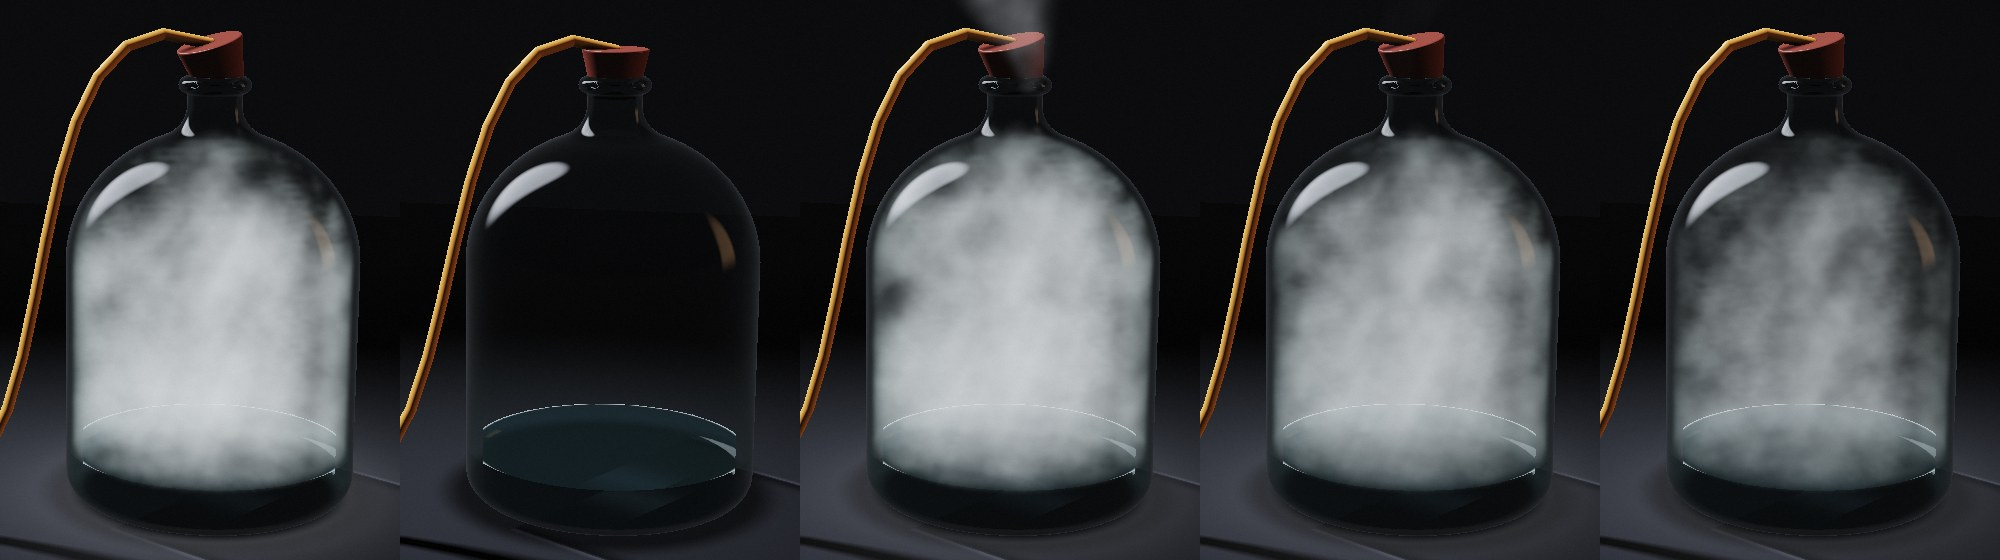
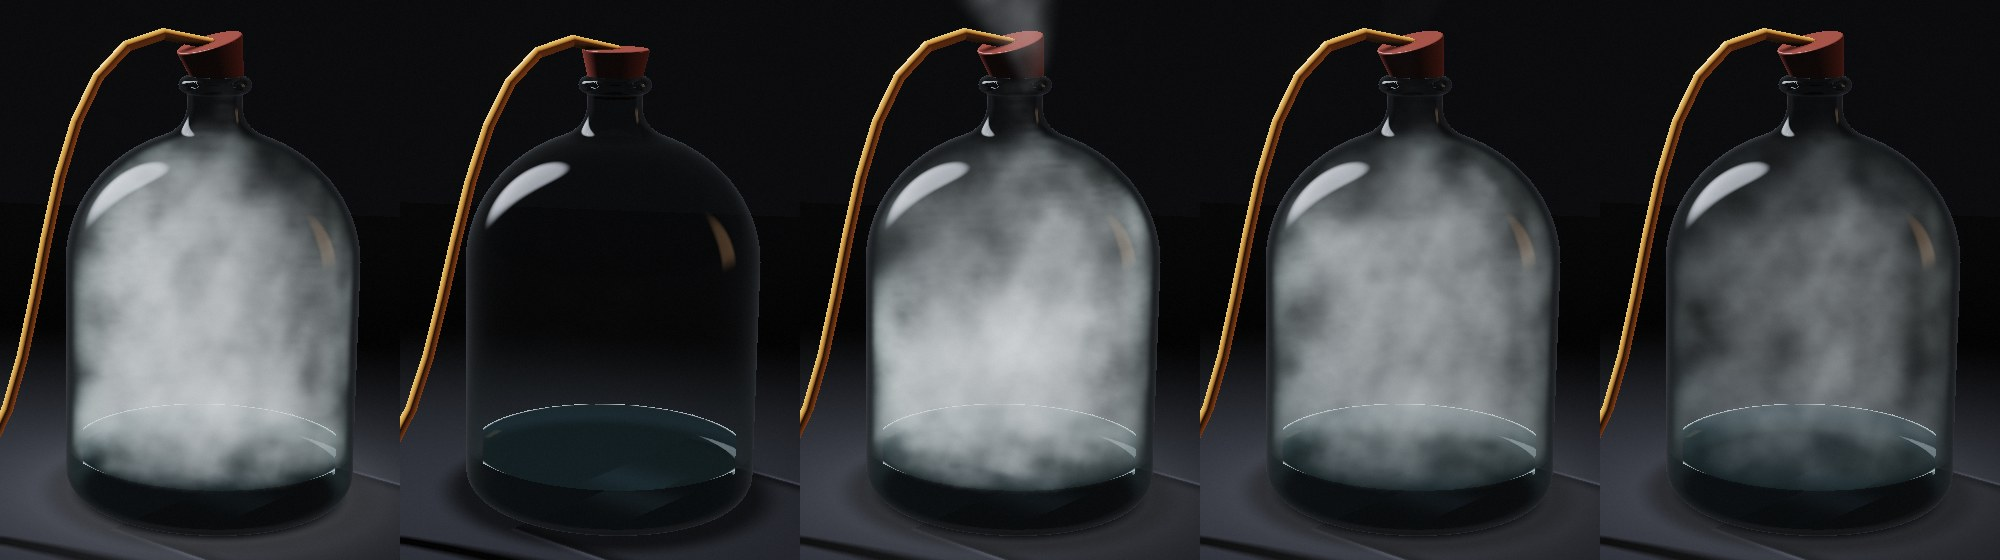
Cloud in a bottle: stronger fluid motion. Turbulence three times stronger at larger eddies (16 per metre), buoyancy 0.09, damping 0.12; a pop kicks the stir to 2 and swells the gas harder; a squeeze jets clear air at 1.3 m/s past the shoulder that bores into the cloud (fog drops by 40 percent, not 5

diff --git a/cloudbottle/fluid.js b/cloudbottle/fluid.js
@@ -115,8 +115,9 @@ void main() {
   v += cross(eta / (length(eta) + 1e-5), wC.xyz) * uVort * CELL * uDt;
   v *= max(1.0 - uDamp * uDt, 0.0);
   // A squeeze blows air from the stopper down the neck.
-  float jet = uJet * smoothstep(0.011, 0.004, length(P.xz)) * smoothstep(TOP - 0.11, TOP - 0.06, P.y);
-  v = mix(v, vec3(0.0, -0.75, 0.0), jet * 0.8);
+  // The jet reaches past the shoulder and spreads as it slows.
+  float jet = uJet * smoothstep(0.016, 0.004, length(P.xz)) * smoothstep(TOP - 0.2, TOP - 0.08, P.y);
+  v = mix(v, vec3(0.0, -1.3, 0.0), jet * 0.85);
   o = vec4(v, 0.0);
 }`;
 
@@ -180,7 +181,7 @@ void main() {
 const ADVECT_DYE = `${HEAD}
 uniform sampler2D tVel, tDye;
 uniform sampler3D uNoise;
-uniform float uDt, uFill, uWall, uEvap, uCool;
+uniform float uDt, uFill, uWall, uEvap, uCool, uJet;
 void main() {
   ivec3 c = cellOf(gl_FragCoord.xy);
   if (!wet(c)) {
@@ -201,16 +202,37 @@ void main() {
   heat *= max(1.0 - uCool * uDt, 0.0);
   // Warm gas takes its droplets back up as vapour.
   fog *= max(1.0 - max(heat, 0.0) * uEvap * uDt, 0.0);
+  // The squeeze's jet is clear air: it bores into the cloud and mixes in.
+  float jet = uJet * smoothstep(0.012, 0.003, length(P.xz)) * smoothstep(TOP - 0.05, TOP - 0.02, P.y);
+  fog *= 1.0 - min(jet * uDt * 30.0, 0.9);
   // A pop lights the nuclei: dense patches and thin gaps.
   if (uFill > 0.0) {
     float puff = texture(uNoise, P * 3.4).g;
     float big = texture(uNoise, P * 1.3 + vec3(0.3, 0.0, 0.0)).r;
-    float b = clamp(puff * 0.6 + big * 0.45 - 0.15, 0.0, 1.0);
-    fog = mix(fog, 0.18 + 1.9 * b * b, uFill);
+    float b = clamp(puff * 0.8 + big * 0.6 - 0.35, 0.0, 1.0);
+    fog = mix(fog, 0.04 + 2.2 * b * b, uFill);
     heat = mix(heat, 0.0, uFill);
   }
   o = vec4(fog, heat, 0.0, 0.0);
 }`;
+
+// Material coordinates: where the gas in each cell started, stored as an offset.
+// Small offsets keep half floats precise; noise read there curls with the flow.
+const ADVECT_UVW = `${HEAD}
+uniform sampler2D tVel, tUvw;
+uniform float uDt, uReset;
+void main() {
+  ivec3 c = cellOf(gl_FragCoord.xy);
+  vec3 pc = vec3(c) + 0.5, P = BMIN + pc * CELL;
+  if (uReset > 0.5 || !wet(c)) { o = vec4(0.0); return; }
+  // A smoothed velocity: a one-cell ripple would crease the coordinates.
+  vec3 v = 0.4 * F(tVel, c).xyz + 0.1 * (F(tVel, c + ivec3(1, 0, 0)).xyz + F(tVel, c - ivec3(1, 0, 0)).xyz
+         + F(tVel, c + ivec3(0, 1, 0)).xyz + F(tVel, c - ivec3(0, 1, 0)).xyz
+         + F(tVel, c + ivec3(0, 0, 1)).xyz + F(tVel, c - ivec3(0, 0, 1)).xyz);
+  o = vec4(S(tUvw, pc - v * uDt / CELL).xyz - v * uDt, 0.0);
+}`;
+// Each coordinate field resets once a period, half a period apart.
+const PERIOD = 1.6;
 
 /** The fluid's programs, for one linked() call with the scene's. */
 export function fluidPrograms(gl) {
@@ -222,6 +244,7 @@ export function fluidPrograms(gl) {
     fJac: program(gl, TRI_VS, JACOBI_FS),
     fProj: program(gl, TRI_VS, PROJECT),
     fDye: program(gl, TRI_VS, ADVECT_DYE),
+    fUvw: program(gl, TRI_VS, ADVECT_UVW),
   };
 }
 
@@ -233,6 +256,9 @@ export function makeFluid(gl, P, empty, noise) {
   const grid = () => target(gl, AW, AH, { clear: true });
   const mask = target(gl, AW, AH, { filter: gl.NEAREST, clear: true });
   const vel = [grid(), grid()], dye = [grid(), grid()], pr = [grid(), grid()], div = grid(), curl = grid();
+  const uvA = [grid(), grid()], uvB = [grid(), grid()];
+  // The sim clock for the coordinate resets; -1 resets both on the first step.
+  let simT = 0, lastA = -1, lastB = -1;
   const swap = a => { const t = a[0]; a[0] = a[1]; a[1] = t; };
   const set = (p, name, v) => { if (p.u[name] != null) gl.uniform1f(p.u[name], v); };
   const use = (p, open) => {
@@ -261,9 +287,9 @@ export function makeFluid(gl, P, empty, noise) {
       bind(gl, p, 'tDye', 1, dye[0]);
       bind(gl, p, 'tCurl', 2, curl);
       set(p, 'uDt', dt); set(p, 'uTime', s.t);
-      set(p, 'uBuoy', 0.04); set(p, 'uWeight', 0.0015);
-      set(p, 'uTurb', s.turb); set(p, 'uTurbF', 26);
-      set(p, 'uVort', 1.0); set(p, 'uDamp', 0.25);
+      set(p, 'uBuoy', 0.09); set(p, 'uWeight', 0.0015);
+      set(p, 'uTurb', s.turb); set(p, 'uTurbF', 16);
+      set(p, 'uVort', 1.0); set(p, 'uDamp', 0.12);
       set(p, 'uJet', s.jet);
       tri(gl, vel[1], empty);
       swap(vel);
@@ -289,6 +315,20 @@ export function makeFluid(gl, P, empty, noise) {
       bind(gl, p, 'tVel', 1, vel[0]);
       tri(gl, vel[1], empty);
       swap(vel);
+
+      simT += dt;
+      const a = Math.floor(simT / PERIOD), b = Math.floor(simT / PERIOD + 0.5);
+      p = P.fUvw;
+      use(p, s.open);
+      bind(gl, p, 'tVel', 0, vel[0]);
+      set(p, 'uDt', dt);
+      for (const [f, reset] of [[uvA, a !== lastA], [uvB, b !== lastB]]) {
+        bind(gl, p, 'tUvw', 1, f[0]);
+        set(p, 'uReset', reset ? 1 : 0);
+        tri(gl, f[1], empty);
+        swap(f);
+      }
+      lastA = a; lastB = b;
     }
     const p = P.fDye;
     use(p, s.open);
@@ -302,6 +342,7 @@ export function makeFluid(gl, P, empty, noise) {
     set(p, 'uWall', s.wall);
     set(p, 'uEvap', 0.05);
     set(p, 'uCool', 0.35);
+    set(p, 'uJet', s.jet);
     tri(gl, dye[1], empty);
     gl.bindTexture(gl.TEXTURE_3D, null);
     swap(dye);
@@ -311,6 +352,18 @@ export function makeFluid(gl, P, empty, noise) {
     step,
     dye: () => dye[0],
     vel: () => vel[0],
-    free() { [mask, div, curl, ...vel, ...dye, ...pr].forEach(t => free(gl, t)); },
+    uvA: () => uvA[0],
+    uvB: () => uvB[0],
+    // The weight of field A: zero when it resets, one when B resets.
+    wA: () => 1 - Math.abs(2 * ((simT / PERIOD) % 1) - 1),
+    // QA: reads one atlas back as floats.
+    read(which = 'dye') {
+      const t = (which === 'vel' ? vel : dye)[0];
+      gl.bindFramebuffer(gl.FRAMEBUFFER, t.fb);
+      const out = new Float32Array(AW * AH * 4);
+      gl.readPixels(0, 0, AW, AH, gl.RGBA, gl.FLOAT, out);
+      return { out, AW, AH, NX, NY, NZ, TC };
+    },
+    free() { [mask, div, curl, ...vel, ...dye, ...pr, ...uvA, ...uvB].forEach(t => free(gl, t)); },
   };
 }

diff --git a/cloudbottle/scene.js b/cloudbottle/scene.js
@@ -102,10 +102,12 @@ vec3 env(vec3 d) {
 const FOG = `${COMMON}
 ${ATLAS}
 uniform sampler3D uNoise;
-uniform sampler2D tDye, tVel;
+uniform sampler2D tDye, tVel, tUvA, tUvB;
 uniform vec2 uRes;
-uniform float uFog, uForm, uT, uPlume, uPlumeT, uFrame;
+uniform float uFog, uForm, uT, uPlume, uPlumeT, uFrame, uWA;
 const float SIG = 11.0;
+// A tent in y: level rays would show any one-cell ripple as stripes.
+vec4 SY(sampler2D t, vec3 c) { return 0.5 * (S(t, c + vec3(0.0, 0.5, 0.0)) + S(t, c - vec3(0.0, 0.5, 0.0))); }
 float dens(vec3 p, out float plume) {
   plume = 0.0;
   float d = 0.0;
@@ -113,16 +115,23 @@ float dens(vec3 p, out float plume) {
   if (m < 0.0 && p.y > WATER) {
     // Fire's split: the fluid grid gives the body, fine noise cuts its edges.
     vec3 c = (p - BMIN) / CELL;
-    float body = S(tDye, c).r;
-    // The flow carries the fine noise, so the edges streak with it.
-    vec3 q = p - S(tVel, c).xyz * 0.12 + vec3(0.0, -uT * 0.003, 0.0);
-    float fine = texture(uNoise, q * 9.5).r;
-    float b = sqrt(max(body - 0.18, 0.0) / 1.9);
+    float body = SY(tDye, c).r;
+    // The noise reads the fluid's material coordinates, so it curls with the eddies.
+    // Two fields reset in turn; each one's weight is zero as it resets.
+    float w1 = uWA;
+    // Half the travel: full travel shears the billows into streaks.
+    vec3 q1 = p + SY(tUvA, c).xyz * 0.5, q2 = p + SY(tUvB, c).xyz * 0.5 + vec3(0.37, 0.11, 0.53);
+    // Fine grain stays in world space: on the coordinates it creases at each slice.
+    float fine = texture(uNoise, p * 9.5 + vec3(0.0, -uT * 0.01, 0.0)).r;
+    // Billows: puffy cells a few centimetres wide, carried by the flow.
+    float puff = texture(uNoise, q1 * 4.2).g * w1 + texture(uNoise, q2 * 4.2).g * (1.0 - w1);
+    // A linear map: a root here bands the cloud at each grid slice.
+    float b = clamp((body - 0.04) / 1.2, 0.0, 1.0);
     // Formation: the densest nuclei light first, then the whole jug fills.
-    float th = 1.15 - uForm * 1.0;
+    float th = 1.15 - uForm * 1.3;
     float cover = smoothstep(th, th + 0.28, b + 0.12 + (fine - 0.5) * 0.3);
-    float ero = smoothstep(0.15, 0.6, fine * 0.55 + min(body, 1.0) * 0.45);
-    d = uFog * cover * body * (0.45 + 0.75 * ero) * smoothstep(0.0, 0.0015, -m);
+    float ero = smoothstep(0.3, 0.68, puff * 0.6 + fine * 0.3 + min(body, 1.0) * 0.3);
+    d = uFog * cover * pow(max(body, 0.0), 1.3) * 1.6 * (0.15 + 1.3 * ero) * smoothstep(0.0, 0.0015, -m);
   }
   if (uPlume > 0.0 && p.y > TOP - 0.01) {
     // The wisp rises out of the mouth, spreads and thins.
@@ -140,7 +149,7 @@ float dens(vec3 p, out float plume) {
 // The light taps read the fluid grid alone.
 float densLite(vec3 p) {
   if (jugInner(p) > 0.0 || p.y < WATER) return 0.0;
-  return uFog * S(tDye, (p - BMIN) / CELL).r * smoothstep(0.0, 0.3, uForm);
+  return uFog * SY(tDye, (p - BMIN) / CELL).r * smoothstep(0.0, 0.3, uForm);
 }
 /* ---------- K3 lighting: Fire's smoke shading (shared/fire.js, volume()) ---------- */
 // A short self-shadow march toward the key, Beer plus a multiple-scatter lobe,
@@ -476,6 +485,9 @@ export async function makeScene(gl) {
     const g = v.fog;
     bind(gl, f, 'tDye', 1, fluid.dye());
     bind(gl, f, 'tVel', 2, fluid.vel());
+    bind(gl, f, 'tUvA', 3, fluid.uvA());
+    bind(gl, f, 'tUvB', 4, fluid.uvB());
+    gl.uniform1f(f.u.uWA, fluid.wA());
     gl.uniform1f(f.u.uFog, g.dens);
     gl.uniform1f(f.u.uForm, g.form);
     gl.uniform1f(f.u.uT, g.t);
@@ -516,5 +528,5 @@ export async function makeScene(gl) {
   }
 
   // One fluid time step; see makeFluid for the fields.
-  return { resize, frame, sim: s => fluid.step(s) };
+  return { resize, frame, sim: s => fluid.step(s), read: w => fluid.read(w) };
 }

diff --git a/cloudbottle/main.js b/cloudbottle/main.js
@@ -49,7 +49,7 @@ let gl = null, scene = null, raf = 0, timer = 0, visible = true, last = 0, frame
 let cssW = 1, cssH = 1, dpr = 1, started = false, pace = 1, lastInput = 0;
 const cam = makeCamera();
 const hose = new Float32Array(39);
-if (new URLSearchParams(location.search).has('qa')) globalThis.__cloud = { jar, cam, squeeze: () => squeeze(), release: () => release(), get loop() { return { raf, timer, busy: busy(), snd: snd.busy, pace }; } };
+if (new URLSearchParams(location.search).has('qa')) globalThis.__cloud = { jar, cam, squeeze: () => squeeze(), release: () => release(), read: w => scene.read(w), get loop() { return { raf, timer, busy: busy(), snd: snd.busy, pace }; } };
 
 /* ---------- bar ---------- */
 const ui = initPage({ id: ID, bar: {
@@ -112,7 +112,7 @@ function squeeze() {
   jar.p = clamp(jar.p + dp, 0, 0.9);
   snd.squeeze(pan, jar.p);
   // Pressure warms the air: droplets evaporate.
-  if (jar.fog > 0.002) { jar.fogTo *= 0.45; jar.spinV += calm ? 0 : 0.6; jar.roll = Math.min(1.2, jar.roll + (calm ? 0 : 0.35)); }
+  if (jar.fog > 0.002) { jar.fogTo *= 0.6; jar.spinV += calm ? 0 : 0.6; jar.roll = Math.min(2, jar.roll + (calm ? 0 : 0.6)); }
   // The air goes in down the stopper; compression warms the gas past the glass.
   jar.jet = calm ? 0 : 1;
   jar.chill = Math.max(-0.5, jar.chill - 0.3);
@@ -150,7 +150,7 @@ function pop(dp) {
     jar.plume = calm ? 0 : 0.6 * frac * (0.3 + 0.7 * jar.smoke);
     jar.plumeT = 0;
     jar.spinV = calm ? 0 : 0.5 + 0.8 * k;
-    jar.roll = calm ? 0 : 1.2;
+    jar.roll = calm ? 0 : 2;
     // The cold gas meets warmer glass.
     jar.chill = Math.max(jar.chill, 0.4 + 0.6 * frac);
   }
@@ -201,11 +201,11 @@ function step(dt) {
   const drift = calm || j.fog <= 0 ? 0 : 0.07;
   j.spinV = drift + (j.spinV - drift) * Math.exp(-dt / 1.6);
   j.chill *= Math.exp(-dt / 20);
-  j.jet *= Math.exp(-dt / 0.2);
+  j.jet *= Math.exp(-dt / 0.3);
   if (j.jet < 0.01) j.jet = 0;
   j.expand *= Math.exp(-dt / 0.1);
   if (j.expand < 0.01) j.expand = 0;
-  j.roll = Math.max(calm || j.fog <= 0 ? 0 : 0.25, j.roll * Math.exp(-dt / 3));
+  j.roll = Math.max(calm || j.fog <= 0 ? 0 : 0.45, j.roll * Math.exp(-dt / 4));
   j.plumeT += dt;
   j.plume *= Math.exp(-dt / 0.9);
   if (j.plume < 0.003) j.plume = 0;
@@ -243,7 +243,7 @@ function sim(dt) {
   const j = jar;
   scene.sim({
     dt: calm ? 0 : dt, t: j.t, open: !j.seated, fill: j.fill, wall: j.chill,
-    turb: 0.05 * (0.4 + 1.6 * j.roll), jet: j.jet, expand: 0.0012 * j.expand,
+    turb: 0.24 * (0.4 + 1.6 * j.roll), jet: j.jet, expand: 0.004 * j.expand,
   });
   j.fill = 0;
 }

diff --git a/docs/toys/cloudbottle.md b/docs/toys/cloudbottle.md
@@ -19,7 +19,7 @@ Squeeze the bulb to pump the jug up. Pull the stopper, or pump past the limit: i
 - A loose stopper goes home on the next squeeze.
 - Past 0.55 to 0.65 bar the stopper pops by itself, after a creak.
 - The cloud's density follows the pressure drop and the smoke. It forms in about 0.2 s: the densest nuclei light first.
-- A squeeze on a sealed, cloudy jug warms the air: the fog halves and swirls. Three or four squeezes clear it.
+- A squeeze on a sealed, cloudy jug blows a jet of clear air down the neck that bores into the cloud and stirs it, and warms the air: the fog drops by 40 percent. Four or five squeezes clear it.
 - Left alone, the cloud thins with a 40 s time constant and sinks a little toward the water.
 - The first frame: a cloud a few seconds old, the stopper loose on the mouth.
 
@@ -37,8 +37,10 @@ Squeeze the bulb to pump the jug up. Pull the stopper, or pump past the limit: i
 - 3D, a fixed camera a little above the jug. Signed distances draw the jug, stopper, hose (12 capsules) and bulb.
 - The fog pass is a 36-step ray march inside the jug and over its mouth. Its lighting is a copy of Fire's smoke shading (`shared/fire.js`, `volume()`), marked `K3 lighting`: three self-shadow taps toward the key, Beer plus a multiple-scatter lobe, the powder term, a 0.5 ambient floor, and a Henyey-Greenstein phase. The march dither turns each frame; a two-pass blur hides it, as in Fire.
 - The cloud moves with Fire's fluid (`shared/fire.js`), ported to raw WebGL2 in `fluid.js`, marked `K3: volume fluid`: advect, buoyancy, ambient turbulence, vorticity confinement, a Jacobi pressure solve, dye transport. The grid is 32 x 40 x 32 cells of 7.5 mm, packed as y slices in one 2D atlas. The glass is a solid wall; the mouth is open while the stopper is out.
-- The dye holds the cloud and the gas warmth. A pop fills the cloud from the noise (dense nuclei and thin gaps) and adds an expansion source: the gas rushes up the neck. The cold gas meets warmer glass, so it rises along the walls, gathers under the shoulder and takes the droplets back up as vapour: the jug clears from the top. A squeeze blows a jet down the neck and warms the gas past the glass.
-- As in Fire, the grid gives the body and fine noise, carried by the flow, cuts its edges. Formation raises a coverage threshold.
+- The dye holds the cloud and the gas warmth. A pop fills the cloud from the noise (dense nuclei and thin gaps) and adds an expansion source: the gas rushes up the neck. The cold gas meets warmer glass, so it rises along the walls, gathers under the shoulder and takes the droplets back up as vapour: the jug clears from the top. A squeeze blows a jet of clear air down the neck, past the shoulder, and warms the gas past the glass.
+- As in Fire, the grid gives the body and noise cuts its edges. Two more grid fields carry material coordinates (each cell's offset from where its gas started); the billow noise reads them, so it curls and rolls with the eddies. They reset 0.8 s apart, each while its weight is zero, every 1.6 s. Fine grain stays in world space.
+- Grid reads in the fog pass use a half-cell tent in y. The camera's rays run nearly level, so any one-cell ripple in y would show as horizontal stripes.
+- Formation raises a coverage threshold. A linear map feeds it; a square root there banded the cloud at each grid slice.
 - The bench pass draws the black epoxy bench, the key's pool, and the jug's shadow analytically: glass and water pass light with a caustic line and a focus; the fog darkens the shadow.
 - The scene pass marches the glass shell, then inside it to the water face (exact plane, meniscus line), the stopper and the back wall, and composites the fog between the walls.
 
@@ -65,7 +67,7 @@ Muted by default. All one-shot nodes; an idle page runs no audio, and the contex
 |---|---|
 | Q1 | `node --check` passes on the four modules, the menu scripts and the icon page |
 | Q2 | Clean console in play (tap, hold, drag on the stopper, Space, Enter, slider), on `?lab` with the tile hovered, and on the icon page |
-| Q3 | Captures in `docs/qa/cloudbottle/`; the fluid in `10-fluid-sequence.jpg` (first frame, pumped clear, 0.5 s, 3 s and 8 s after a pop) and `11-fluid-first-frame.jpg` |
+| Q3 | Captures in `docs/qa/cloudbottle/`; the fluid in `10-fluid-sequence.jpg` (first frame, pumped clear, 0.5 s, 3 s and 8 s after a pop), `11-fluid-first-frame.jpg`, and `12-motion-pairs.jpg` (pairs 0.5 s apart: drift, after a pop, after a squeeze) |
 | Q4 | Drift 29.5 rAF per second; 62 s after the last input, 0 frames in 2 s; a clear jug, 0 frames in 2 s |
 | Q5 | Hidden tab: 0 frames in 2 s |
 | Q6 | Reduced motion: clean console; 0 frames at rest; the pop forms the cloud with no wisp, then sleeps |

diff --git a/docs/plans/cloudbottle.md b/docs/plans/cloudbottle.md
@@ -16,7 +16,7 @@ The fog rolls and swirls in the side light. Squeeze again: the stopper goes home
 | Space | 3D, a fixed camera a little above the jug, three-quarter light | The fog is a volume; only 3D shows it fill the round jug and catch the light from the side. |
 | Renderer | Raw WebGL2 on `shared/gl.js`: a fog pass at half size and its blur, a bench pass, a scene pass, bloom from `shared/glow.js`, the grade from `shared/grade.js` | Small programs link fast on D3D11. Signed distances draw the jug, stopper, hose and bulb. |
 | Fog shading | Fire's smoke shading (`shared/fire.js`), copied as `K3 lighting` | Tom, 2026-11-22: "fire toy smoke shader -- always". |
-| Fog motion | Fire's fluid, ported to raw WebGL2 in `fluid.js` | Tom, 2026-11-23: yes to the port. |
+| Fog motion | Fire's fluid, ported to raw WebGL2 in `fluid.js`, with billows on advected material coordinates | Tom, 2026-11-23: yes to the port, then "stronger motion". Image change in 0.5 s, against the first port: drift 1.9 times, after a pop 2.5 times. |
 | Vessel | A large round glass jug with a short neck | The classic lecture demonstration (reference). Glass gives crisp edge light that frames the fog. |
 | Pump | A rubber squeeze bulb on the bench, on a hose to the stopper | A pump in frame makes each stroke visible; a bulb is one bold shape, no prop. |
 | Light | Black room; one cool key from the back left, a faint warm rim from the right | Fog scatters forward: a back side light makes it glow white on black, as in lecture photos. |

diff --git a/.beans/stimming-ec87--toy-cloud-in-a-bottle.md b/.beans/stimming-ec87--toy-cloud-in-a-bottle.md
@@ -20,6 +20,7 @@ Build Cloud in a bottle (idea 129, group A) as a Lab toy: an MVP at high fidelit
 - [x] Intro emblem, favicon, toys.json entry, Lab tile with GSAP hook
 - [x] QA Q1 to Q10, docs/toys/cloudbottle.md
 - [x] Fire's fluid ported to raw WebGL2 (fluid.js), Tom's yes 2026-11-23; QA rerun
+- [x] Stronger fluid motion (Tom 2026-11-23): more turbulence, clear-air squeeze jet, billows on advected coordinates, stripe fixes; QA rerun
 - [ ] Tom sets the Dutch name
 - [ ] Record the session cost
 
